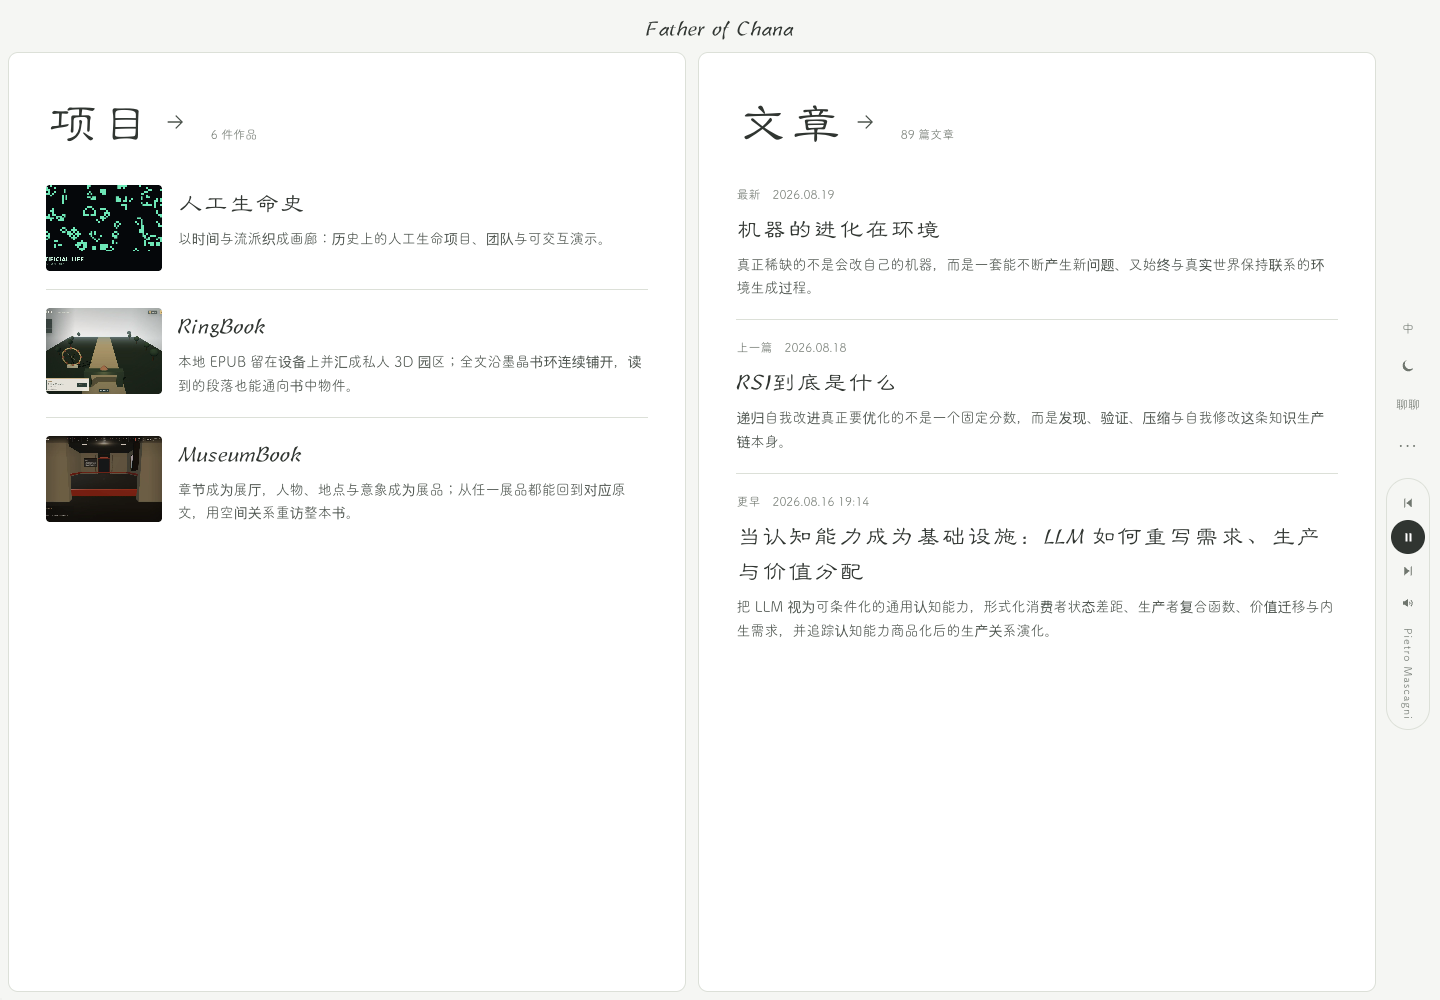
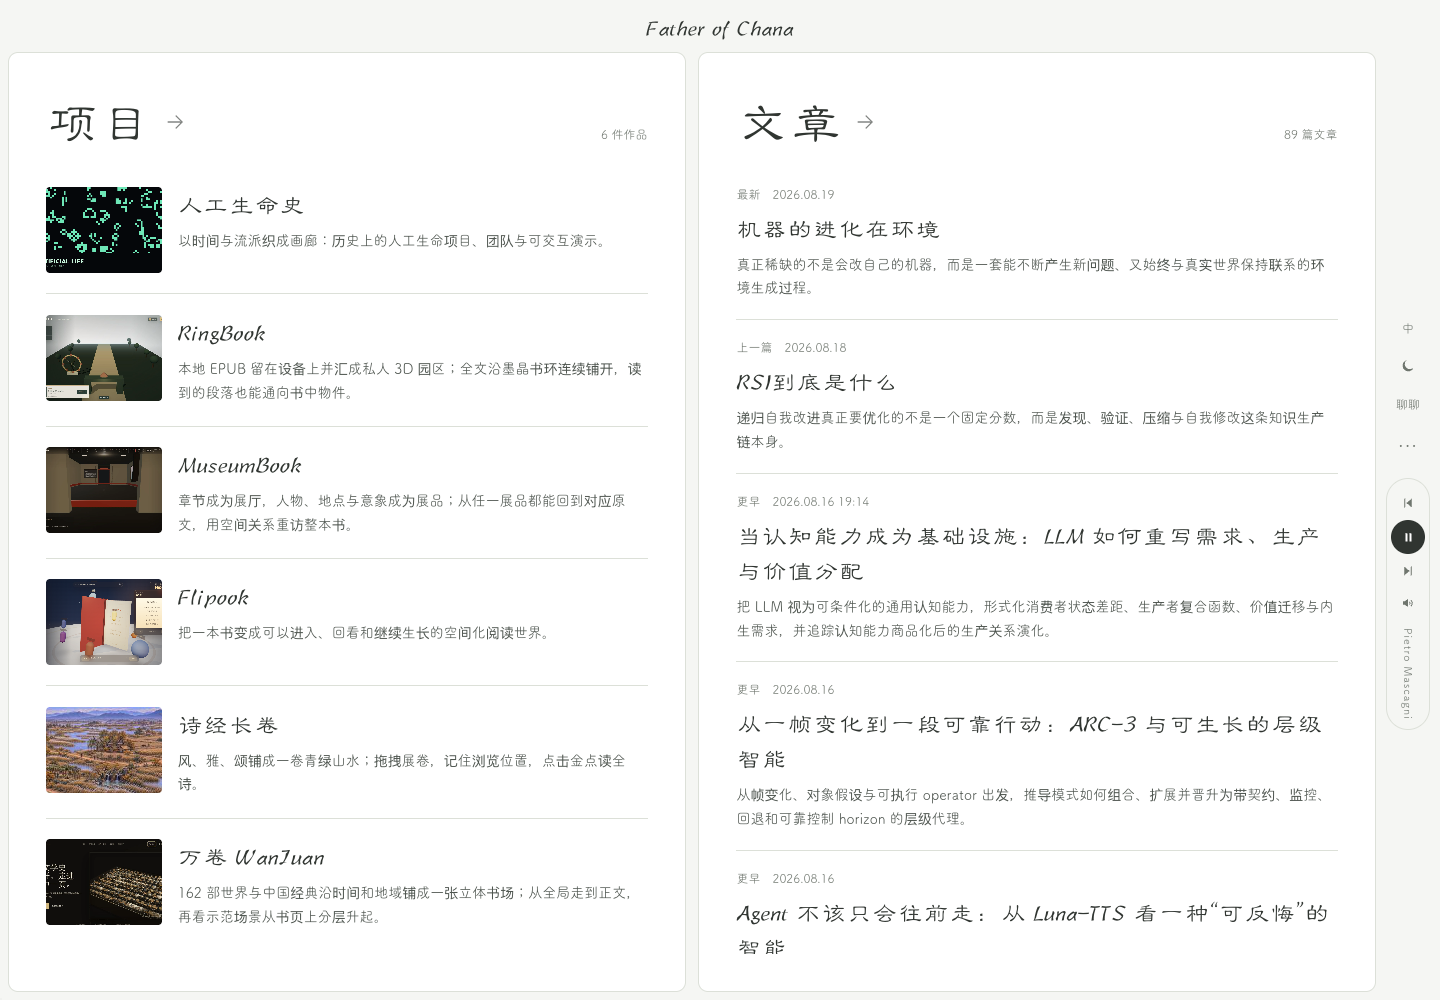
Fill home panels and activate the complete heading row (#22)

diff --git a/src/components/FatherLanding.tsx b/src/components/FatherLanding.tsx
@@ -4,6 +4,7 @@ import { PERSONAL_PROJECTS } from "../data/fountFields";
 import type { Lang } from "../i18n/lang";
 import { withSiteParams } from "../lib/lang-url";
 import { HomeExcerpt } from "./HomeExcerpt";
+import { useAdaptivePreviewCount } from "./useAdaptivePreviewCount";
 import { useHomeLibraryGesture } from "./useHomeLibraryGesture";
 
 type FatherLandingProps = {
@@ -26,6 +27,7 @@ function articleExcerpt(article: BlogArticle, lang: Lang) {
 
 export function FatherLanding({ lang, articles, onOpen, onOpenArticle, onOpenProject }: FatherLandingProps) {
   const landingRef = useHomeLibraryGesture(onOpen);
+  const { previewsRef, previewCount } = useAdaptivePreviewCount(articles.length);
   const chronology = lang === "zh" ? ["最新", "上一篇", "更早"] : ["Latest", "Previous", "Earlier"];
 
   function open(event: MouseEvent<HTMLAnchorElement>, surface: "projects" | "articles") {
@@ -53,18 +55,18 @@ export function FatherLanding({ lang, articles, onOpen, onOpenArticle, onOpenPro
         style={{ viewTransitionName: "father-library-projects" }}
         aria-labelledby="father-entry-projects-title"
       >
-        <div className="father-entry-heading">
+        <a className="father-entry-heading" href={withSiteParams("/projects", { lang })} onClick={(event) => open(event, "projects")} aria-label={lang === "zh" ? "打开项目卡片库" : "Open project library"}>
           <div className="father-entry-heading-link">
             <h2 id="father-entry-projects-title">{lang === "zh" ? "项目" : "Projects"}</h2>
-            <a className="father-entry-arrow" href={withSiteParams("/projects", { lang })} onClick={(event) => open(event, "projects")} aria-label={lang === "zh" ? "打开项目卡片库" : "Open project library"} title={lang === "zh" ? "打开项目卡片库" : "Open project library"}>
+            <span className="father-entry-arrow" aria-hidden="true">
               <svg viewBox="0 0 24 24" aria-hidden="true" focusable="false"><path d="M4 12h16m-7-7 7 7-7 7" /></svg>
-            </a>
+            </span>
           </div>
           <span className="father-entry-count">{PERSONAL_PROJECTS.length}{lang === "zh" ? " 件作品" : " works"}</span>
-        </div>
+        </a>
         <div className="father-entry-previews">
           <ol className="father-entry-preview-list">
-            {PERSONAL_PROJECTS.slice(0, 3).map((project) => (
+            {PERSONAL_PROJECTS.map((project) => (
               <li key={project.key}>
                 <a className="father-project-preview" href={withSiteParams(`/projects?card=${encodeURIComponent(project.key)}`, { lang })} onClick={(event) => openPreview(event, () => onOpenProject(project.key))}>
                   <img className="father-entry-image" src={project.coverUrl} alt={project.coverAlt[lang]} />
@@ -80,23 +82,23 @@ export function FatherLanding({ lang, articles, onOpen, onOpenArticle, onOpenPro
       </section>
 
       <section className="father-entry father-entry-articles" data-home-surface="articles" style={{ viewTransitionName: "father-library-articles" }} aria-labelledby="father-entry-articles-title">
-        <div className="father-entry-heading">
+        <a className="father-entry-heading" href={withSiteParams("/blog", { lang })} onClick={(event) => open(event, "articles")} aria-label={lang === "zh" ? "打开文章卡片库" : "Open article library"}>
           <div className="father-entry-heading-link">
             <h2 id="father-entry-articles-title">{lang === "zh" ? "文章" : "Articles"}</h2>
-            <a className="father-entry-arrow" href={withSiteParams("/blog", { lang })} onClick={(event) => open(event, "articles")} aria-label={lang === "zh" ? "打开文章卡片库" : "Open article library"} title={lang === "zh" ? "打开文章卡片库" : "Open article library"}>
+            <span className="father-entry-arrow" aria-hidden="true">
               <svg viewBox="0 0 24 24" aria-hidden="true" focusable="false"><path d="M4 12h16m-7-7 7 7-7 7" /></svg>
-            </a>
+            </span>
           </div>
           <span className="father-entry-count">{articles.length}{lang === "zh" ? " 篇文章" : " articles"}</span>
-        </div>
-        <div className="father-entry-previews">
+        </a>
+        <div className="father-entry-previews" ref={previewsRef}>
           {articles.length ? (
             <ol className="father-entry-preview-list">
-              {articles.slice(0, 3).map((article, index) => (
+              {articles.slice(0, previewCount).map((article, index) => (
                 <li key={article.id}>
                   <a className="father-article-preview" href={articleHref(article.id)} onClick={(event) => openPreview(event, () => onOpenArticle(article.id))}>
                     <div className="father-entry-article-meta">
-                      <span>{chronology[index]}</span>
+                      <span>{chronology[Math.min(index, 2)]}</span>
                       <span className="father-entry-date">{article.date}</span>
                     </div>
                     <h3>{article.title[lang]}</h3>

diff --git a/src/components/FatherSpread.css b/src/components/FatherSpread.css
@@ -150,11 +150,13 @@ body:has(.father-spread) .site-ai-chat { display: none; }
 }
 .father-entry :is(.father-article-preview, .father-project-preview) { display: block; min-width: 0; color: inherit; text-decoration: none; overflow-wrap: anywhere; }
 .father-entry :is(.father-article-preview, .father-project-preview):hover h3 { text-decoration: underline; text-decoration-thickness: 1px; text-underline-offset: 5px; }
-.father-entry-heading { display: flex; flex: none; flex-wrap: wrap; align-items: baseline; gap: 6px 14px; margin-bottom: 28px; }
+.father-entry-heading { display: flex; flex: none; flex-wrap: wrap; align-items: baseline; gap: 6px 14px; width: 100%; min-height: 44px; margin-bottom: 28px; color: var(--desk-ink); text-decoration: none; }
+.father-entry-heading:focus-visible { outline: 2px solid var(--desk-muted); outline-offset: 2px; }
 .father-entry-heading-link { display: flex; align-items: center; min-width: 0; }
-.father-entry-arrow { display: grid; place-items: center; flex: none; width: 44px; height: 44px; color: var(--desk-ink); }
-.father-entry-arrow:hover { color: var(--desk-muted); }
-.father-entry-arrow svg { width: 22px; height: 22px; fill: none; stroke: currentColor; stroke-width: 1.4; }
+.father-entry-arrow { display: grid; place-items: center; flex: none; width: 44px; height: 44px; color: var(--desk-ink); opacity: 0.6; transition: opacity 160ms ease; }
+.father-entry-heading:is(:hover, :focus-visible) .father-entry-arrow { opacity: 1; }
+.father-entry-arrow svg { width: 22px; height: 22px; fill: none; stroke: currentColor; stroke-width: 1.4; transition: transform 160ms ease; }
+.father-entry-heading:is(:hover, :focus-visible) .father-entry-arrow svg { transform: translateX(4px); }
 .father-spread .father-entry h2,
 .father-spread .father-entry h3 {
     margin: 0;
@@ -166,7 +168,7 @@ body:has(.father-spread) .site-ai-chat { display: none; }
 .father-spread .father-entry h2 { font-size: clamp(34px, 3.6vw, 54px); line-height: 1.2; }
 .father-spread .father-entry h2::before,
 .father-spread .father-entry h3::before { content: none; counter-increment: none; }
-.father-entry-count { color: var(--desk-muted); font-size: 12px; white-space: nowrap; }
+.father-entry-count { margin-inline-start: auto; color: var(--desk-muted); font-size: 12px; white-space: nowrap; }
 .father-entry .father-project-preview {
     display: grid;
     grid-template-columns: clamp(80px, 8vw, 124px) minmax(0, 1fr);
@@ -197,6 +199,10 @@ body:has(.father-spread) .site-ai-chat { display: none; }
 .father-entry-preview-list > li { margin: 0; padding: 18px 0; }
 .father-entry-preview-list > li:first-child { padding-top: 0; }
 .father-entry-preview-list > li + li { border-top: 1px solid var(--desk-line); }
+.father-entry-projects .father-entry-preview-list { display: flex; flex-direction: column; min-height: 100%; }
+.father-entry-projects .father-entry-preview-list > li { display: flex; flex: 1 0 auto; align-items: center; }
+.father-entry-projects .father-project-preview { width: 100%; }
+.father-entry .father-article-preview { min-height: 88px; }
 .father-entry-article-meta {
     display: flex;
     flex-wrap: wrap;
@@ -627,6 +633,8 @@ body:has(.father-spread) .site-ai-chat { display: none; }
     .father-side:not(.is-social-open) .father-social { opacity: 0; visibility: hidden; pointer-events: none; }
 }
 @media (prefers-reduced-motion: reduce) {
+    .father-entry-arrow, .father-entry-arrow svg { transition: none; }
+    .father-entry-heading:is(:hover, :focus-visible) .father-entry-arrow svg { transform: none; }
     .father-slot, .father-tools, .father-social, .father-entry { transition: none; }
     ::view-transition-group(*) { animation-duration: 0s; }
 }

diff --git a/src/components/useAdaptivePreviewCount.ts b/src/components/useAdaptivePreviewCount.ts
@@ -1,0 +1,20 @@
+import { useEffect, useRef, useState } from "react";
+
+/** Fill the available panel with a small buffer, independent of scrolling. */
+export function useAdaptivePreviewCount(total: number) {
+  const previewsRef = useRef<HTMLDivElement>(null);
+  const [count, setCount] = useState(12);
+
+  useEffect(() => {
+    const node = previewsRef.current;
+    if (!node) return;
+    const observer = new ResizeObserver(() => {
+      // Preview rows are at least 88px tall; 80px leaves room for font reflow.
+      setCount(Math.min(total, Math.max(4, Math.ceil(node.clientHeight / 80) + 2)));
+    });
+    observer.observe(node);
+    return () => observer.disconnect();
+  }, [total]);
+
+  return { previewsRef, previewCount: Math.min(total, count) };
+}

diff --git a/AGENTS.md b/AGENTS.md
@@ -25,7 +25,7 @@
 ## Main surface
 - Browser home screen captured at `screenshots/runtime-home.png`.
 ## Deep exploration flow
-- Visit `http://127.0.0.1:44014/?lang=zh` (首页为「项目 / 文章」两张预览卡，每侧三项).
+- Visit `http://127.0.0.1:44014/?lang=zh` (首页为「项目 / 文章」两张预览卡，内容铺满可视区域).
 - Visit `http://127.0.0.1:44014/?lang=en` (same page, English).
 - Visit `http://127.0.0.1:44014/projects?lang=zh` (六件个人项目，等高水平叠放的阅读卡片).
 - Visit `http://127.0.0.1:44014/blog?lang=zh` (博客阅读卡片及可搜索的文章目录).
@@ -38,7 +38,7 @@
 ## Acceptance chain
 - Run `npm run dev` and wait for a local browser URL.
 - Confirm `screenshots/runtime-home.png` still matches the main UI (`screenshots/runtime-home.png`).
-- Confirm home has exactly two preview cards (项目 / 文章), each showing three entries. Heading arrows and upward touch gestures / downward wheel gestures expand the corresponding panel into its card library; individual previews open in place. Summaries show at most two lines and fade only when overflowing, with no bottom 全部文章 button or extra reading-action text.
+- Confirm home has exactly two preview cards (项目 / 文章): all six projects and enough article previews to fill the available height, including after viewport resize. Hovering or focusing the complete heading row activates its arrow; clicking the title, count or intervening space enters the library. Upward touch gestures / downward wheel gestures also expand the panel into its library; individual previews open in place. Summaries show at most two lines and fade only when overflowing, with no bottom 全部文章 button or extra reading-action text.
 - Reading cards share their top and bottom edges, retain native internal scroll, and expand on click with Escape / 收回 to return. Only sharing is offered; no quote action or frame ornaments.
 - Confirm the mast has no personal seal, and the 项目 / 博客 switch sits directly above the cards. Home article previews, article cards and index entries expand in place; no 阅读原文 link remains. Vertical scrolling keeps native momentum while horizontal navigation still changes cards.
 - Confirm language, theme, music and hover-revealed social controls remain usable outside the cards on desktop and in the bottom rail on phones. Browser Back / Forward must restore the correct surface.
